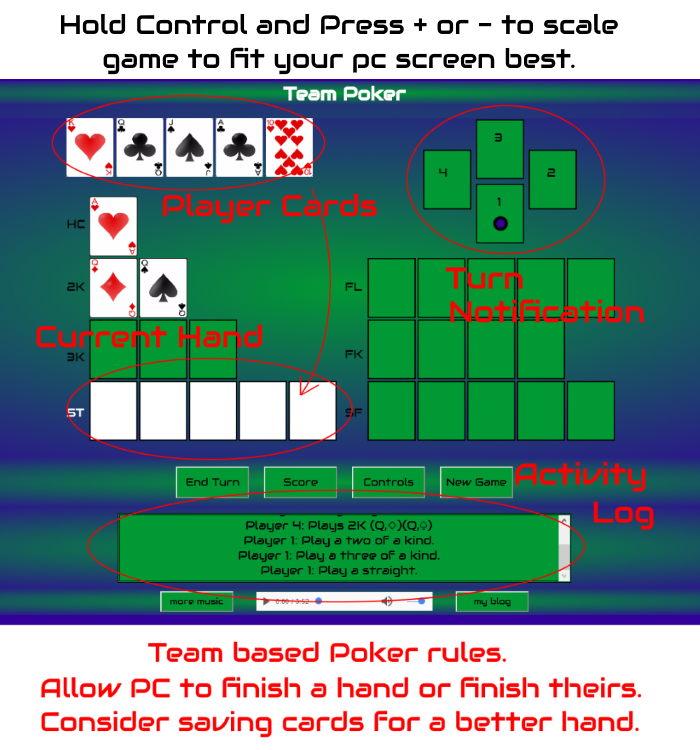
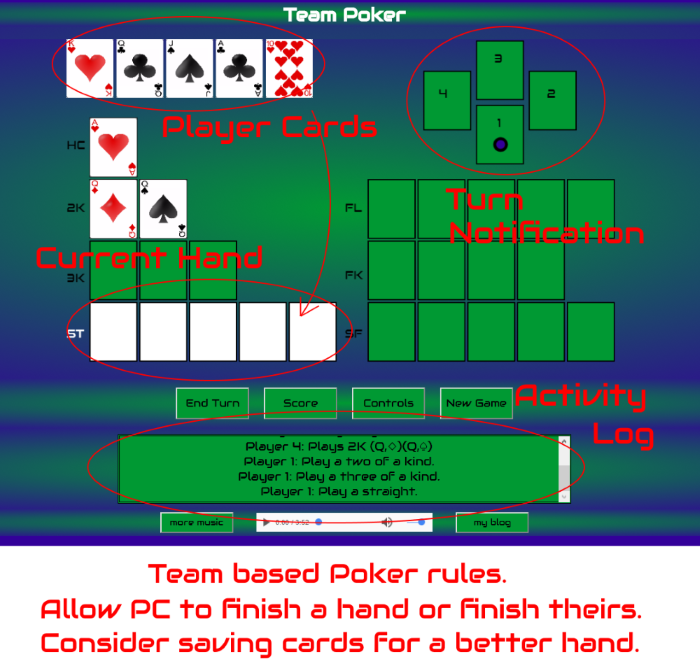
image scaling and layout changes

diff --git a/assets/styles/instant-layout.css b/assets/styles/instant-layout.css
@@ -95,7 +95,7 @@ html, body {
 }
 
 .overlay.is-open {
-  display: flex;
+  display: flex !important;
 }
 
 .overlay-panel,
@@ -107,30 +107,62 @@ html, body {
   box-sizing: border-box;
 }
 
-#tutorialDiv {
-  width: auto;
-  height: auto;
+#tutorialDiv.overlay {
+  position: fixed !important;
+  inset: 0 !important;
+  width: 100% !important;
+  height: 100% !important;
+  margin: 0 !important;
   border: none;
+  background: rgba(0, 0, 0, 0.72);
+  display: none;
+  align-items: center;
+  justify-content: center;
+  box-sizing: border-box;
+  padding: 16px;
+}
+
+#tutorialDiv.overlay.is-open {
+  display: flex !important;
+}
+
+.tutorial-frame {
+  width: auto;
+  max-width: 90vw;
+  max-height: 90vh;
+  box-sizing: border-box;
+  padding: 8px;
   margin: 0;
-  left: auto;
-  right: auto;
+  background-color: #003413;
+  border: 10px double #000000;
+  display: flex;
+  align-items: center;
+  justify-content: center;
+  flex: 0 0 auto;
 }
 
 #tutorialImage {
-  max-width: 92vw;
-  max-height: 86vh;
-  object-fit: contain;
-}
-
-#loadingDiv {
-  display: flex;
+  display: block;
   width: auto;
   height: auto;
+  max-width: calc(90vw - 36px);
+  max-height: calc(90vh - 36px);
+  object-fit: contain;
+  object-position: center;
+}
+
+#loadingDiv.overlay {
+  position: fixed !important;
+  inset: 0 !important;
+  width: 100% !important;
+  height: 100% !important;
+  margin: 0 !important;
   border: none;
-  margin: 0;
-  left: auto;
-  right: auto;
   background: rgba(0, 0, 0, 0.8);
+  display: flex;
+  align-items: center;
+  justify-content: center;
+  box-sizing: border-box;
 }
 
 #loadingDiv.is-hidden {
@@ -138,9 +170,17 @@ html, body {
 }
 
 #loading {
-  position: static;
+  position: static !important;
+  left: auto !important;
+  right: auto !important;
+  top: auto !important;
+  bottom: auto !important;
   height: auto;
   margin: 0;
+  width: auto;
+  color: #ff0000;
+  font-size: 40px;
+  text-align: center;
 }
 
 #draggableControlsTextArea,

diff --git a/scripts/facebook/layout.js b/scripts/facebook/layout.js
@@ -86,6 +86,18 @@ function setOverlayOpen(id, open) {
         return;
     }
     el.classList.toggle("is-open", open);
+    if (open) {
+        el.hidden = false;
+        el.style.display = "";
+        el.style.position = "";
+        el.style.left = "";
+        el.style.top = "";
+        el.style.right = "";
+        el.style.bottom = "";
+        el.style.width = "";
+        el.style.height = "";
+        el.style.margin = "";
+    }
 }
 
 function toggleOverlay(id) {

diff --git a/index.html b/index.html
@@ -125,7 +125,9 @@
     </div>
 
     <div id="tutorialDiv" class="overlay">
-        <img id="tutorialImage" alt="Tutorial" src="">
+        <div class="tutorial-frame">
+            <img id="tutorialImage" alt="Tutorial" src="">
+        </div>
     </div>
 
     <div id="loadingDiv" class="overlay">

diff --git a/scripts/gamelogic.js b/scripts/gamelogic.js
@@ -424,7 +424,8 @@ function hideTutorial() {
         return;
     }
     if (jTutorialDiv) {
-        jTutorialDiv.stop(true, true).hide();
+        jTutorialDiv.stop(true, true);
+        jTutorialDiv[0].style.display = "";
     }
     if (tutorialDiv) {
         tutorialDiv.hidden = true;
